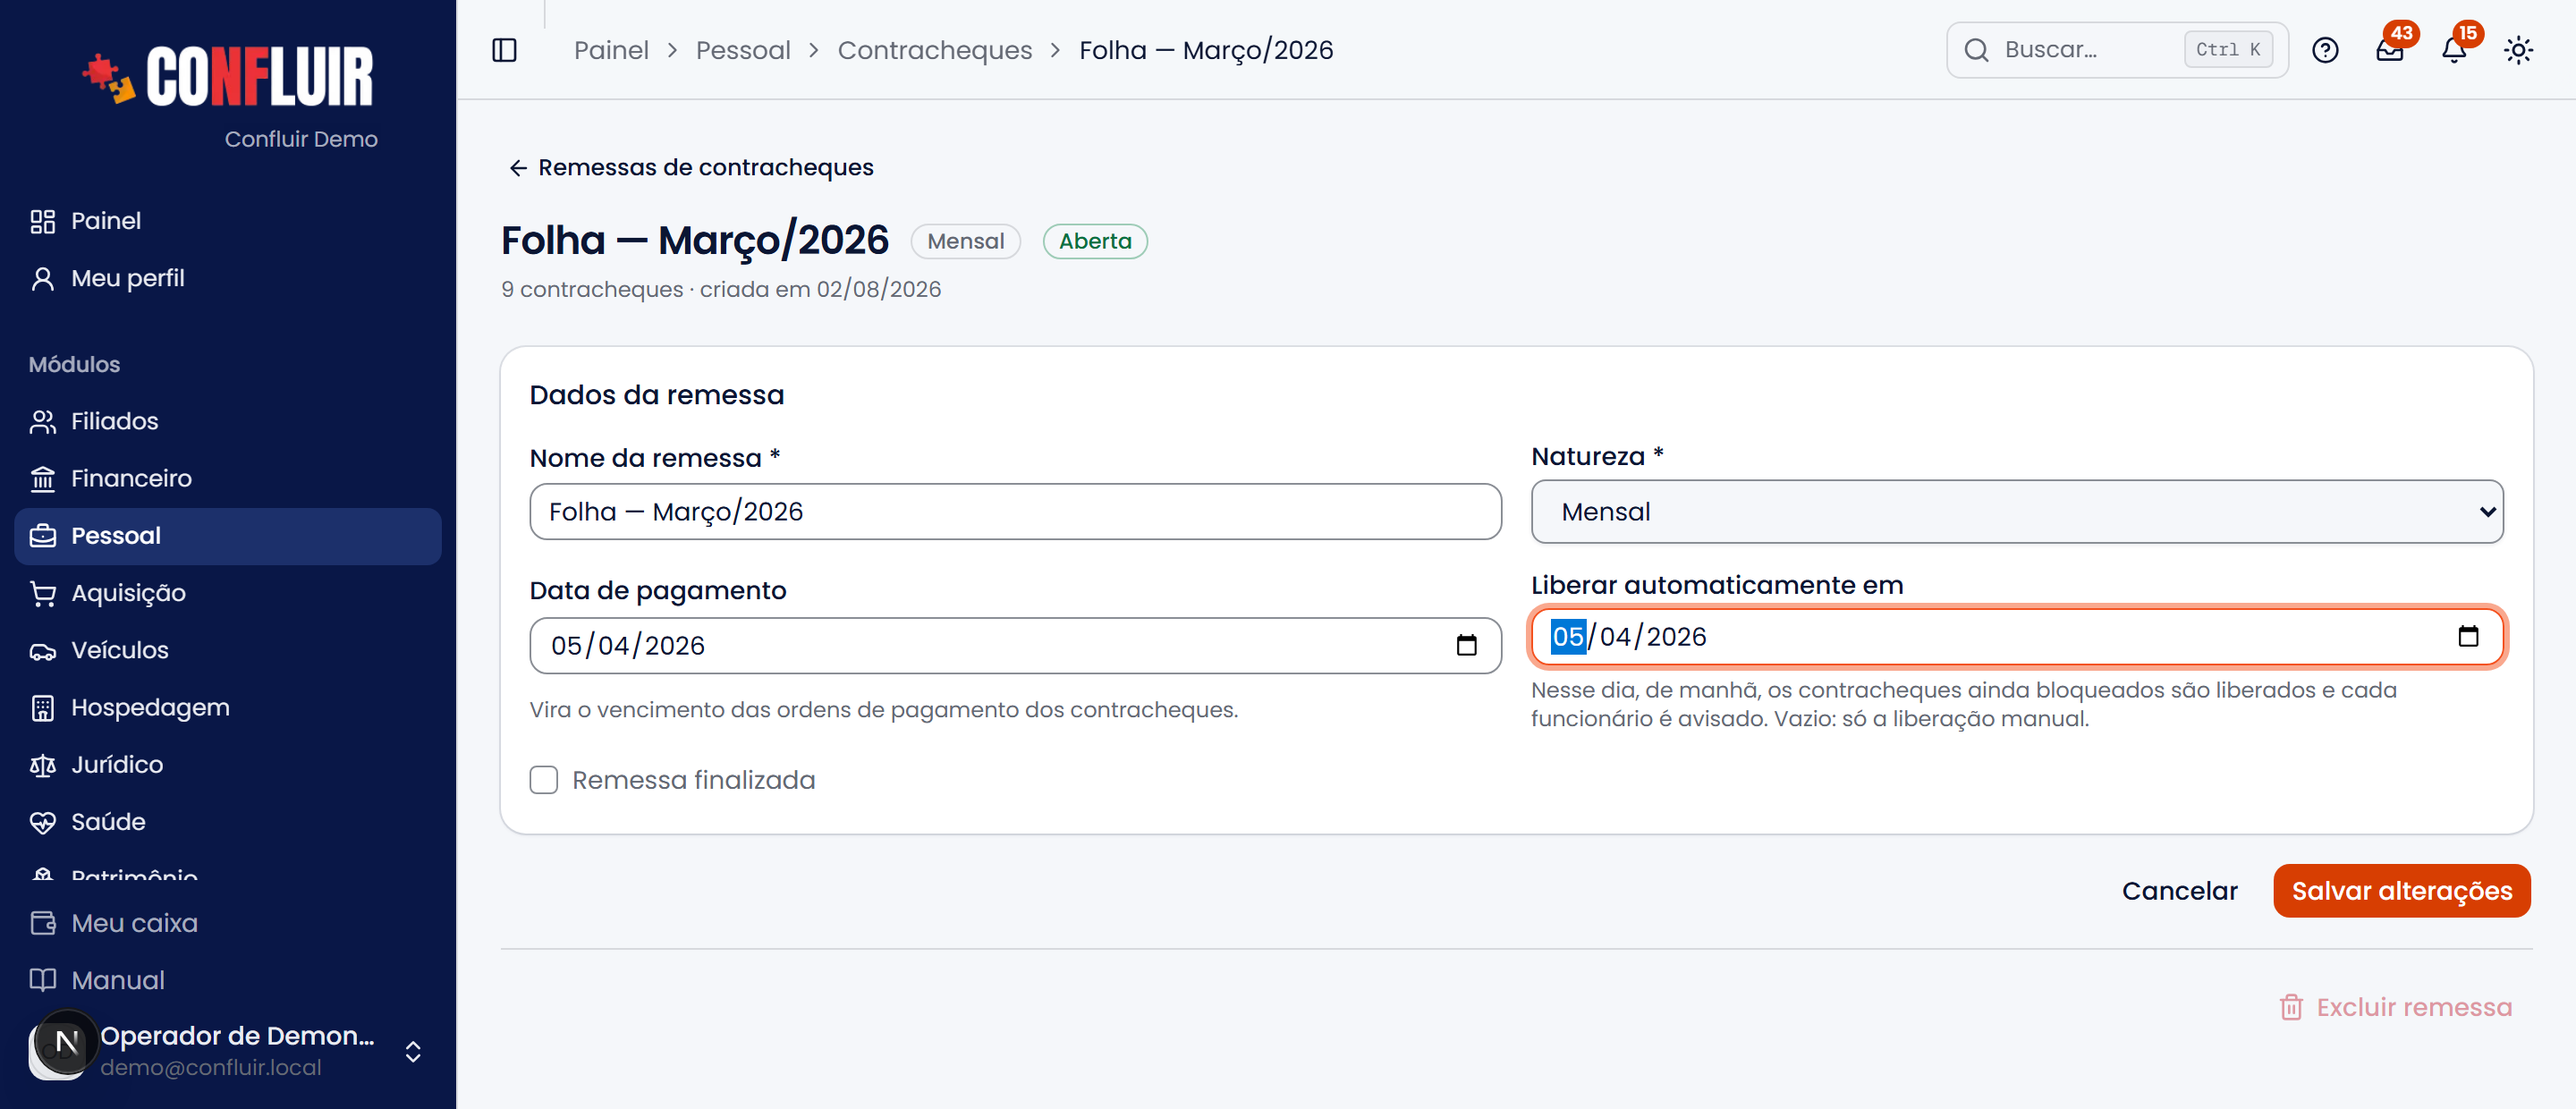
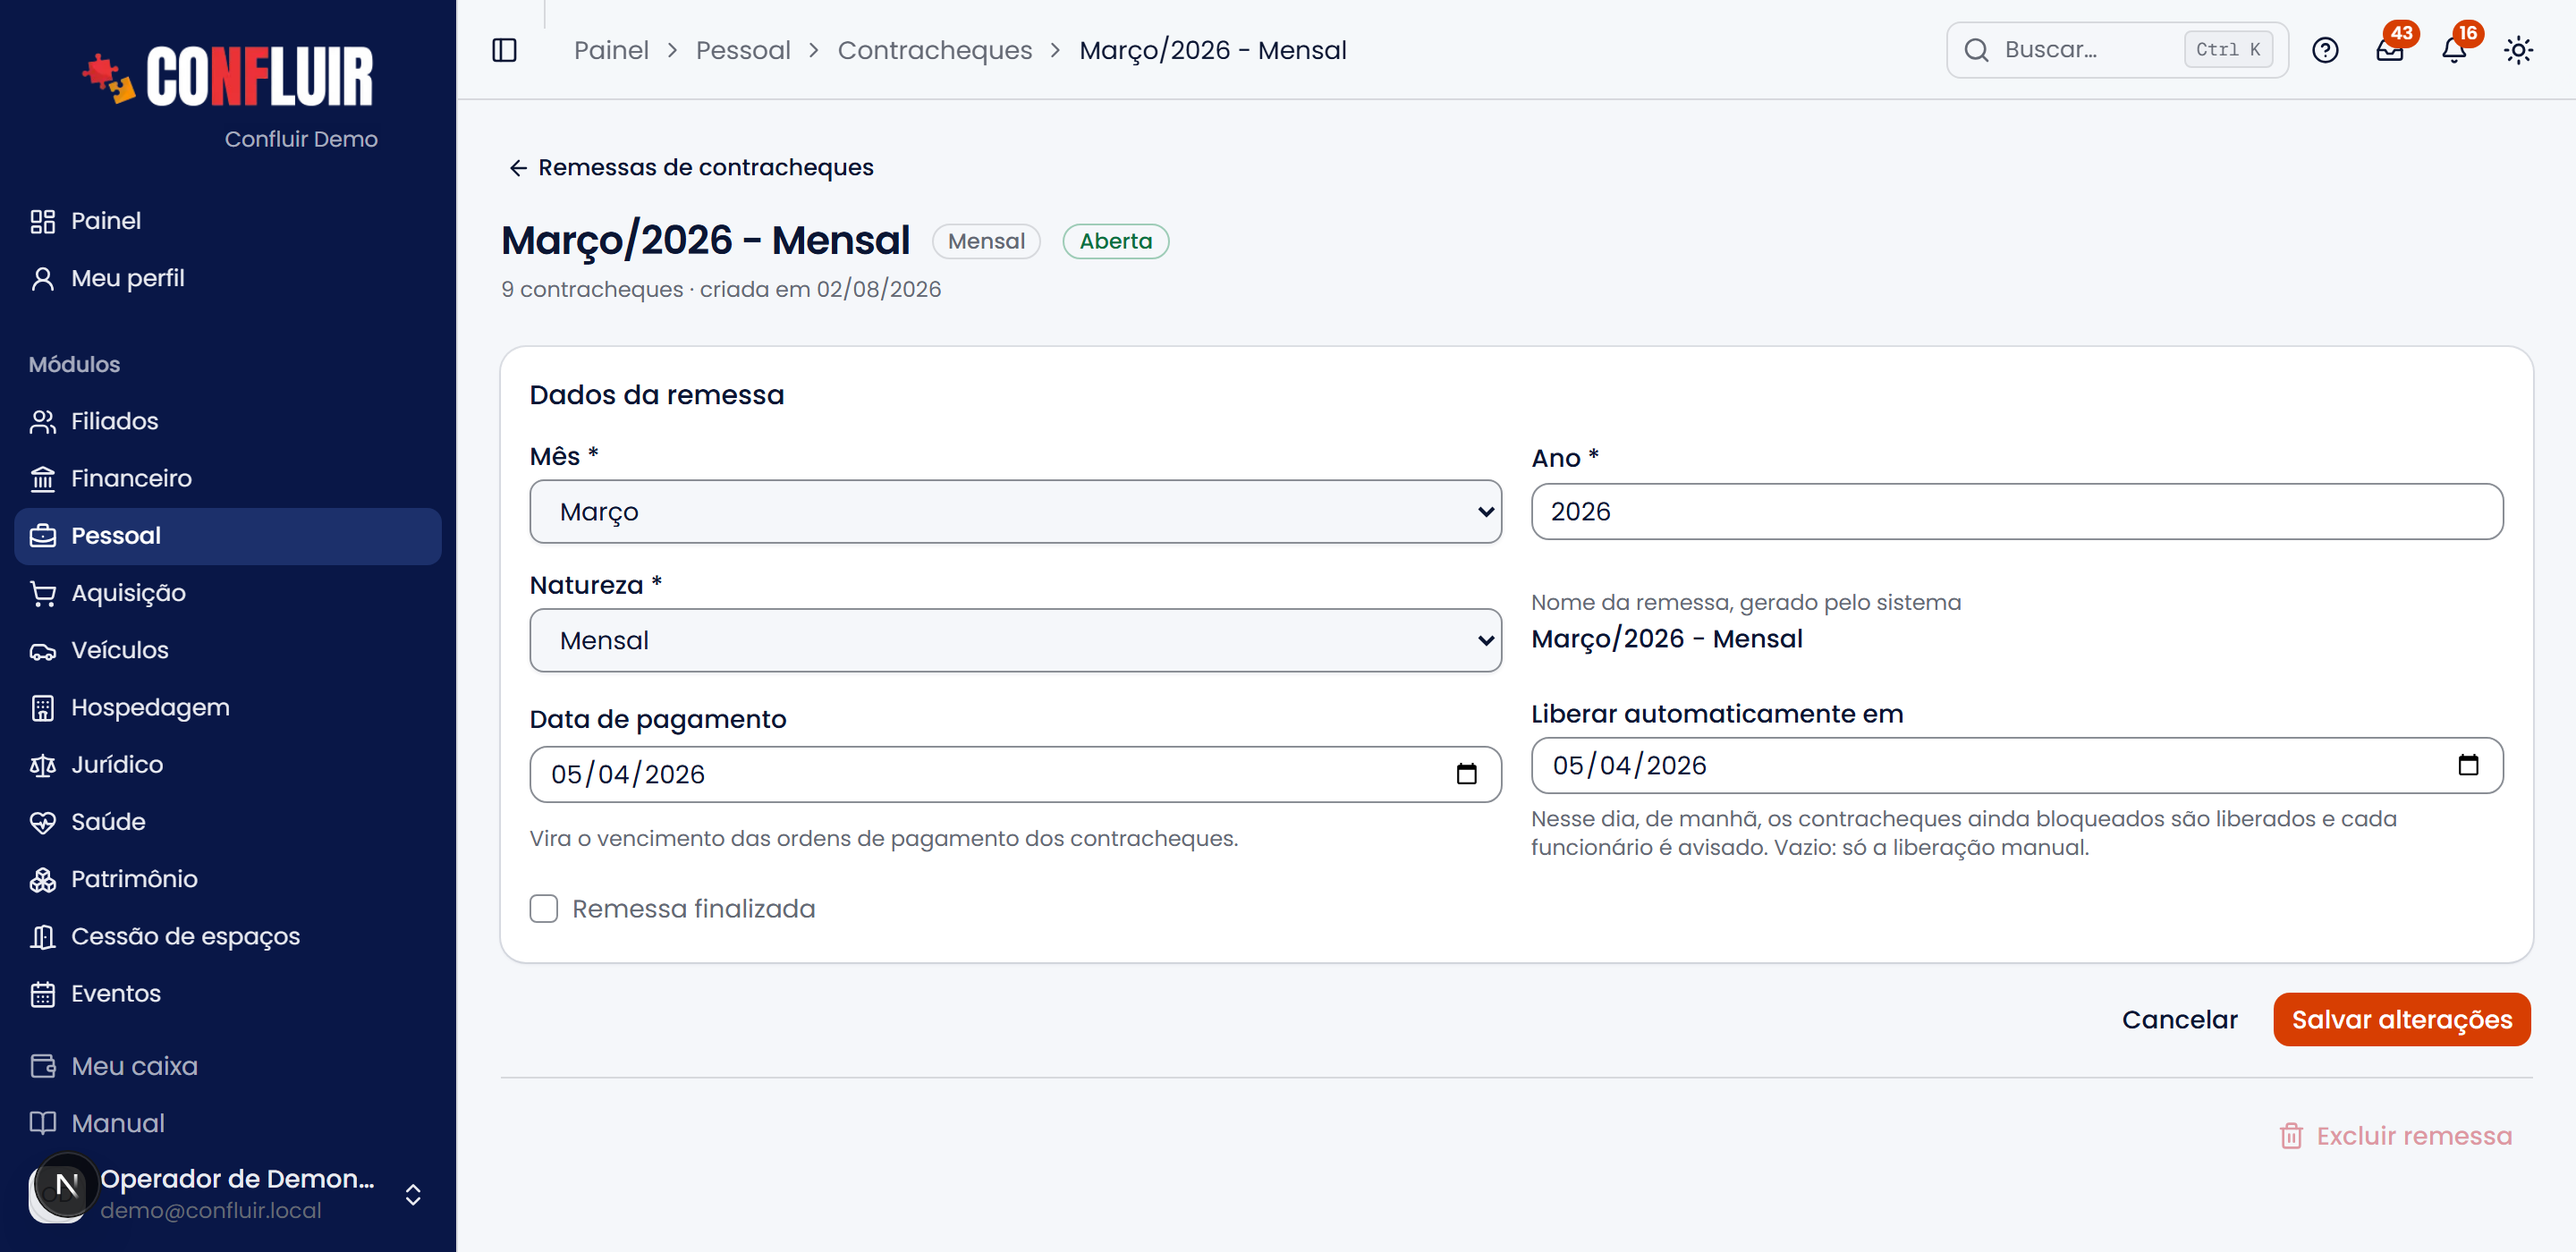
Contracheques: nome da remessa gerado pelo sistema (Mês/Ano - Natureza)
- Formulário troca o nome digitado por mês e ano, com prévia do nome.
- O servidor monta o nome ("Março/2026 - Mensal"); remessa antiga abre com
  mês e ano tirados do nome e só muda de nome ao salvar.
- Manual, print da liberação automática e teste de unidade.

diff --git a/src/app/painel/pessoal/contracheques/remessa-form.tsx b/src/app/painel/pessoal/contracheques/remessa-form.tsx
@@ -1,6 +1,6 @@
 "use client"
 
-import { useActionState } from "react"
+import { useActionState, useState } from "react"
 import Link from "next/link"
 import { Loader2, Trash2 } from "lucide-react"
 
@@ -19,6 +19,7 @@ import {
 } from "./actions"
 import { confirmarEnvio } from "@/components/ui/confirmacao"
 import { useEnvioFormulario } from "@/hooks/use-envio-formulario"
+import { competenciaDoNome, MESES_REMESSA, nomeRemessaContracheques } from "@/lib/contracheque-leitura"
 
 const SELECT =
   "border-input bg-background text-foreground h-9 w-full rounded-md border px-3 text-sm shadow-xs outline-none [color-scheme:light] dark:[color-scheme:dark]"
@@ -77,6 +78,14 @@ export function RemessaContrachequesForm({
       },
   })
 
+  // Remessa antiga: mês e ano saem do nome; sem isso no nome, ficam para escolher.
+  const competencia = competenciaDoNome(remessa?.nome_remessa)
+  const [mes, setMes] = useState(competencia ? MESES_REMESSA[Number(competencia.slice(5, 7)) - 1] : "")
+  const [ano, setAno] = useState(competencia?.slice(0, 4) ?? "")
+  const [natureza, setNatureza] = useState(naturezaAtual(remessa))
+  const rotulo = NATUREZAS.find((n) => n.valor === natureza)?.rotulo
+  const nomeGerado = mes && /^\d{4}$/.test(ano) && rotulo ? nomeRemessaContracheques(mes, ano, rotulo) : null
+
   const erro = estado.erro ?? estadoExcluir.erro
   const voltar = remessa
     ? `/painel/pessoal/contracheques/${remessa.id}`
@@ -98,12 +107,35 @@ export function RemessaContrachequesForm({
           </CardHeader>
           <CardContent className="grid gap-4 sm:grid-cols-2">
             <div className="grid gap-1.5">
-              <Label htmlFor="nome_remessa">Nome da remessa *</Label>
+              <Label htmlFor="mes">Mês *</Label>
+              <select
+                id="mes"
+                name="mes"
+                required
+                value={mes}
+                onChange={(e) => setMes(e.target.value)}
+                className={SELECT}
+              >
+                <option value="" disabled>
+                  Escolha o mês
+                </option>
+                {MESES_REMESSA.map((m) => (
+                  <option key={m} value={m}>
+                    {m}
+                  </option>
+                ))}
+              </select>
+            </div>
+            <div className="grid gap-1.5">
+              <Label htmlFor="ano">Ano *</Label>
               <Input
-                id="nome_remessa"
-                name="nome_remessa"
-                placeholder="Ex.: Julho/2026 - Mensal"
-                defaultValue={remessa?.nome_remessa ?? ""}
+                id="ano"
+                name="ano"
+                inputMode="numeric"
+                maxLength={4}
+                placeholder="AAAA"
+                value={ano}
+                onChange={(e) => setAno(e.target.value)}
                 required
               />
             </div>
@@ -113,7 +145,8 @@ export function RemessaContrachequesForm({
                 id="natureza"
                 name="natureza"
                 required
-                defaultValue={naturezaAtual(remessa)}
+                value={natureza}
+                onChange={(e) => setNatureza(e.target.value)}
                 className={SELECT}
               >
                 <option value="" disabled>
@@ -125,6 +158,13 @@ export function RemessaContrachequesForm({
                   </option>
                 ))}
               </select>
+            </div>
+            <div className="grid content-center gap-0.5">
+              <span className="text-muted-foreground text-xs">Nome da remessa, gerado pelo sistema</span>
+              <span className="text-sm font-medium">{nomeGerado ?? "Escolha mês, ano e natureza"}</span>
+              {remessa?.nome_remessa && nomeGerado && remessa.nome_remessa !== nomeGerado && (
+                <span className="text-muted-foreground text-xs">Hoje: {remessa.nome_remessa}. Muda ao salvar.</span>
+              )}
             </div>
             {comDataPagamento && (
               <div className="grid gap-1.5">

diff --git a/src/app/painel/pessoal/contracheques/actions.ts b/src/app/painel/pessoal/contracheques/actions.ts
@@ -7,6 +7,7 @@ import { redirect } from "next/navigation"
 
 import { requirePermissao } from "@/lib/auth"
 import { type EstadoForm } from "@/lib/contas"
+import { MESES_REMESSA, nomeRemessaContracheques } from "@/lib/contracheque-leitura"
 import {
   cancelarOrdemDoContracheque,
   gerarOrdemDoContracheque,
@@ -55,11 +56,16 @@ function lerLiberarEm(formData: FormData) {
   }
 }
 
-/** Nome e natureza são obrigatórios; a natureza é ÚNICA por remessa. */
+/**
+ * Mês, ano e natureza são obrigatórios; a natureza é ÚNICA por remessa. O nome
+ * não é digitado: sai deles ("Março/2026 - Mensal").
+ */
 function lerCamposRemessa(formData: FormData) {
-  const nome = String(formData.get("nome_remessa") ?? "").trim()
+  const mes = String(formData.get("mes") ?? "")
+  const ano = String(formData.get("ano") ?? "").trim()
   const natureza = String(formData.get("natureza") ?? "")
-  if (!nome) return { erro: "Informe o nome da remessa." }
+  if (!MESES_REMESSA.includes(mes)) return { erro: "Escolha o mês da remessa." }
+  if (!/^\d{4}$/.test(ano)) return { erro: "Informe o ano da remessa (AAAA)." }
   if (!(NATUREZAS as readonly string[]).includes(natureza)) {
     return { erro: "Escolha a natureza da remessa." }
   }
@@ -69,15 +75,18 @@ function lerCamposRemessa(formData: FormData) {
   }
   const liberacao = lerLiberarEm(formData)
   if ("erro" in liberacao) return { erro: liberacao.erro as string }
-  return {
-    ...liberacao,
-    // Só vai ao banco quando o campo existe no formulário (SQL da folha).
-    ...(formData.has("data_pagamento") ? { data_pagamento: dataPagamento || null } : {}),
-    nome_remessa: nome,
+  const flags = {
     decimo_terceiro: natureza === "decimo_terceiro",
     ferias: natureza === "ferias",
     adiantamento: natureza === "adiantamento",
     complementar_mensal: natureza === "complementar_mensal",
+  }
+  return {
+    ...liberacao,
+    // Só vai ao banco quando o campo existe no formulário (SQL da folha).
+    ...(formData.has("data_pagamento") ? { data_pagamento: dataPagamento || null } : {}),
+    nome_remessa: nomeRemessaContracheques(mes, ano, naturezaRemessaContracheques(flags)),
+    ...flags,
     finalizada: formData.get("finalizada") === "on",
   }
 }

diff --git a/tests/unidade/contracheque-leitura.spec.ts b/tests/unidade/contracheque-leitura.spec.ts
@@ -1,6 +1,6 @@
 import { expect, test } from "playwright/test"
 
-import { alertasDaLeitura, competenciaDoNome, type LeituraContracheque } from "@/lib/contracheque-leitura"
+import { alertasDaLeitura, competenciaDoNome, nomeRemessaContracheques, type LeituraContracheque } from "@/lib/contracheque-leitura"
 
 /** Conferência da folha importada (lib/contracheque-leitura.ts). */
 
@@ -25,6 +25,15 @@ test.describe("competenciaDoNome", () => {
     expect(competenciaDoNome("13º salário 2025")).toBeNull()
     expect(competenciaDoNome("Adiantamento")).toBeNull()
     expect(competenciaDoNome(null)).toBeNull()
+  })
+})
+
+test.describe("nomeRemessaContracheques", () => {
+  test("monta Mês/Ano - Natureza, e a competência volta do nome", () => {
+    expect(nomeRemessaContracheques("Março", "2026", "Mensal")).toBe("Março/2026 - Mensal")
+    expect(competenciaDoNome("Março/2026 - Mensal")).toBe("2026-03")
+    expect(competenciaDoNome(nomeRemessaContracheques("Dezembro", "2026", "13º salário"))).toBe("2026-12")
+    expect(competenciaDoNome(nomeRemessaContracheques("Maio", "2026", "Complementar (mensal)"))).toBe("2026-05")
   })
 })
 

diff --git a/src/lib/contracheque-leitura.ts b/src/lib/contracheque-leitura.ts
@@ -33,6 +33,13 @@ export function competenciaDoNome(nome: string | null | undefined): string | nul
   return null
 }
 
+export const MESES_REMESSA = ["Janeiro", "Fevereiro", "Março", "Abril", "Maio", "Junho", "Julho", "Agosto", "Setembro", "Outubro", "Novembro", "Dezembro"]
+
+/** Nome da remessa, montado pelo sistema: "Março/2026 - Mensal". */
+export function nomeRemessaContracheques(mes: string, ano: string, natureza: string): string {
+  return `${mes}/${ano} - ${natureza}`
+}
+
 /** Variação do líquido em relação ao contracheque anterior que vira alerta. */
 export const VARIACAO_ALERTA = 0.3
 
